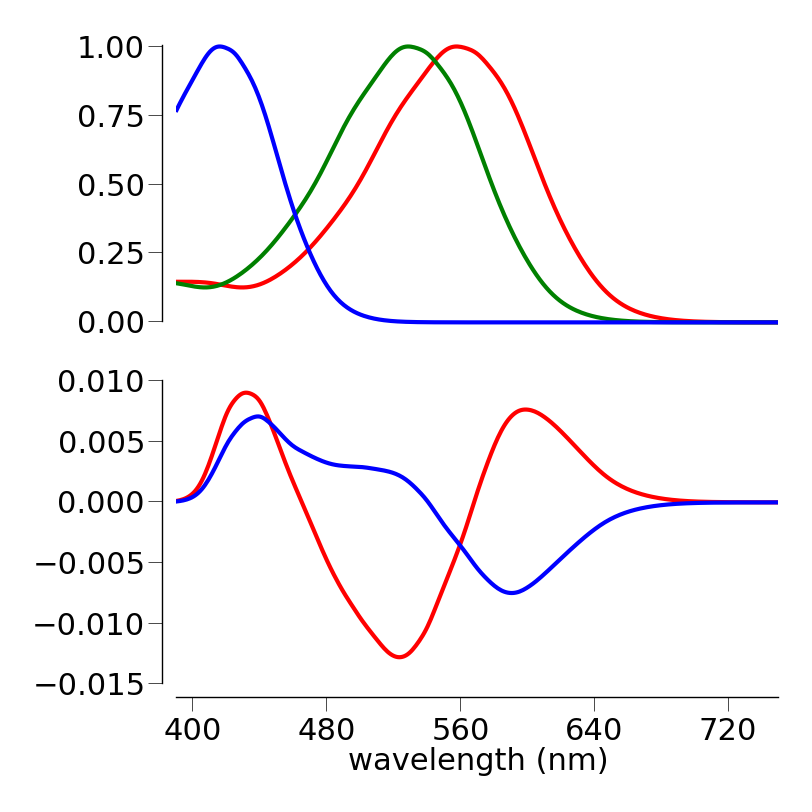
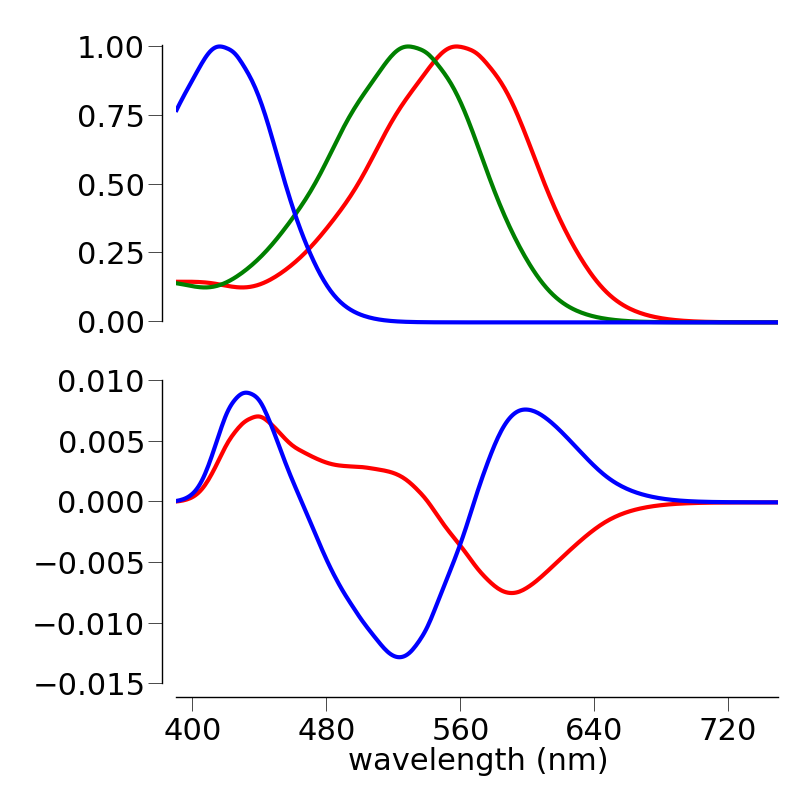
trying to fix flat green line

diff --git a/colorModel.py b/colorModel.py
@@ -3,7 +3,7 @@ from __future__ import division
 import numpy as np
 from scipy.optimize import fsolve
 import matplotlib.pylab as plt
-#from math import factorial
+from math import factorial
 
 from spectsens import spectsens
 import PlottingFun as pf
@@ -13,17 +13,28 @@ from sompy import SOM
 class colorModel():
 
     def __init__(self,
-                ConeRatio={'fracLvM': 0.90, 's': 0.05, },
+                ConeRatio={'fracLvM': 0.50, 's': 0.05, },
                 maxSens={'l': 559.0, 'm': 530.0, 's': 417.0, }):
 
-        if ConeRatio['fracLvM'] > 1 or ConeRatio['fracLvM'] < 0:
+        self.test = True
+        self.step = 5
+        self.findConeRatios(ConeRatio['fracLvM'], ConeRatio['s'])
+        self.maxSens = maxSens
+        self.getStockmanFilter()
+
+    def findConeRatios(self, fracLvM, fracS=None):
+        if fracS > 1 or fracLvM < 0:
             raise IOError('Fraction of LvM must be between 0 and 1!')
 
-        self.sRatio = ConeRatio['s']
-        self.lRatio = (1 - self.sRatio) * (ConeRatio['fracLvM'])
-        self.mRatio = (1 - self.sRatio) * (1 - self.lRatio)
+        if fracS is not None:
+            self.sRatio = fracS
+        self.lRatio = (1 - self.sRatio) * (fracLvM)
+        self.mRatio = (1 - self.sRatio) * (1 - fracLvM)
 
-        self.maxSens = maxSens
+        if self.test:
+            if round(self.sRatio + self.mRatio + self.lRatio, 7) != 1.0:
+                print 'lms ratios: ', self.sRatio, self.mRatio, self.lRatio
+                raise IOError('cone ratios must sum to 1.0!')
 
     def genModel(self):
 
@@ -31,11 +42,46 @@ class colorModel():
         self.genSecondStage()
         self.genThirdStage()
 
-    def uniqueHues(self):
-
+    def findUniqueHues(self):
+        lambdas = self.FirstStage['lambdas']
+        uniqueRed, uniqueGreen, uniqueBlue, uniqueYellow = [], [], [], []
+        LMratio = []
         if self.SecondStage:
-            for i in range(0, 101, 1):
-                self.genThirdStage(i / 100.)
+            for i in range(0, 101, self.step):
+
+                self.findConeRatios(fracLvM=(i / 100.))
+                self.genThirdStage()
+                temp = self.returnThirdStage()
+                RG = temp['redGreen']
+                BY = temp['blueYellow']
+
+                if i == 0:
+                    uniqueGreen.append(495)
+                    uniqueRed.append(600)
+                else:
+                    zero_cross = np.where(np.diff(np.sign(RG)))[0]
+                    uniqueGreen.append(lambdas[zero_cross[0]])
+                    uniqueRed.append(lambdas[np.argmin(RG)])
+
+                if i == 100:
+                    uniqueBlue.append(470)
+                    uniqueYellow.append(578)
+                else:
+
+                    zero_cross = np.where(np.diff(np.sign(BY)))[0]
+                    uniqueBlue.append(lambdas[zero_cross[0]])
+                    uniqueYellow.append(lambdas[np.argmin(BY)])
+                    #uniqueYellow.append(lambdas[zero_cross[1]])
+
+                LMratio.append(i)
+
+        self.uniqueHues = {
+            'red': uniqueRed,
+            'blue': uniqueBlue,
+            'green': uniqueGreen,
+            'yellow': uniqueYellow,
+            'LMratio': LMratio,
+            }
 
     def genFirstStage(self, startLambda=390, endLambda=750, step=1,
                         Out='anti-log'):
@@ -78,15 +124,15 @@ class colorModel():
 
         self.SecondStage = {'lmsV_L': {}, 'lmsV_M': {}, 'ratio': {}, }
         i = 0
-        for s in range(0, 101, 10):
-            for m in range(0, 101, 10):
-                for l in range(0, 101, 10):
+        for s in range(0, 101, self.step):
+            for m in range(0, 101, self.step):
+                for l in range(0, 101, self.step):
                     if (l + m + s) == 100:
                         ratio = {'s': s, 'm': m, 'l': l, }
                         lmsV_L = self.optimizeChannel(cones, ratio,
-                                                        Vcone=L_cones)
+                                                        Center=L_cones)
                         lmsV_M = self.optimizeChannel(cones, ratio,
-                                                        Vcone=M_cones)
+                                                        Center=M_cones)
                         self.SecondStage['lmsV_L'][i] = lmsV_L
                         self.SecondStage['lmsV_M'][i] = lmsV_M
                         self.SecondStage['ratio'][i] = ratio
@@ -98,52 +144,75 @@ class colorModel():
         self.ThirdStage = {'redGreen': {}, 'blueYellow': {}, }
 
         #poisson = lambda mu, k: (np.exp(-mu) * mu ** k) / factorial(k)
-        gauss = lambda mu, k: (np.exp(-1 * (k - mu) ** 2))
+        gauss = lambda mu, k: (np.exp(-1 * ((k - mu) ** 2) / 4 ** 2))
         gaussS, gaussM, gaussL = [], [], []
-        for i in range(0, 101, 10):
-            gaussS.append(gauss(self.sRatio, i / 100))
-            gaussM.append(gauss(self.mRatio, i / 100))
-            gaussL.append(gauss(self.lRatio, i / 100))
+        for i in range(0, 101, self.step):
+            gaussS.append(gauss(self.sRatio * 100., i))
+            gaussM.append(gauss(self.mRatio * 100., i))
+            gaussL.append(gauss(self.lRatio * 100., i))
         gaussS = gaussS / sum(gaussS)
         gaussM = gaussM / sum(gaussM)
         gaussL = gaussL / sum(gaussL)
+        '''
+        plt.figure()
+        plt.plot(range(0, 101, 1), gaussS)
+        plt.plot(range(0, 101, 1), gaussM)
+        plt.plot(range(0, 101, 1), gaussL)
+        plt.show()
+        '''
+        if self.test:
+            if self.mRatio != 0 and self.lRatio != 0:
+                if round(sum(gaussS) + sum(gaussM) + sum(gaussL), 5) != 3.0:
+                    print 'sum s: ', sum(gaussS)
+                    print 'sum m: ', sum(gaussM)
+                    print 'sum l: ', sum(gaussL)
+                    raise ValueError('gaussian prob distributions \
+                        must sum to 1')
 
-        if self.lRatio != 0:
-            lCenterProb = (self.mRatio + self.lRatio) / self.lRatio
-        else:
-            lCenterProb = 0
+        lCenterProb = self.lRatio / (self.mRatio + self.lRatio)
 
         self.ThirdStage = {
+            'mCenter': np.zeros(len(self.SecondStage['lmsV_L'][0])),
+            'lCenter': np.zeros(len(self.SecondStage['lmsV_M'][0])),
             'redGreen': np.zeros(len(self.SecondStage['lmsV_L'][0])),
-            'blueYellow': np.zeros(len(self.SecondStage['lmsV_L'][0])),
+            'blueYellow': np.zeros(len(self.SecondStage['lmsV_M'][0])),
             }
-
+        p = 0
         for i in self.SecondStage['lmsV_L']:
-            lRat = self.SecondStage['ratio'][i]['l'] / 10.
-            mRat = self.SecondStage['ratio'][i]['m'] / 10.
-            sRat = self.SecondStage['ratio'][i]['s'] / 10.
+            lRat = self.SecondStage['ratio'][i]['l'] / self.step
+            mRat = self.SecondStage['ratio'][i]['m'] / self.step
+            sRat = self.SecondStage['ratio'][i]['s'] / self.step
 
             prob = (gaussS[sRat] * gaussM[mRat] * gaussL[lRat])
+            p += prob
+            lCenter = self.SecondStage['lmsV_L'][i]
+            mCenter = self.SecondStage['lmsV_M'][i]
 
-            BY = self.SecondStage['lmsV_L'][i]
-            RG = self.SecondStage['lmsV_M'][i]
+            self.ThirdStage['mCenter'] += mCenter * prob * (1 - lCenterProb)
+            self.ThirdStage['lCenter'] += lCenter * prob * (lCenterProb)
 
-            self.ThirdStage['redGreen'] += RG * prob * lCenterProb
-            self.ThirdStage['blueYellow'] -= BY * prob * (1 - lCenterProb)
+        self.ThirdStage['blueYellow'] = (self.ThirdStage['mCenter'] -
+                                        self.ThirdStage['lCenter'])
+        self.ThirdStage['redGreen'] = (self.ThirdStage['mCenter'] +
+                                        self.ThirdStage['lCenter'])
+        print p
 
-    def optimizeChannel(self, cones, ratio, Vcone):
+    def optimizeChannel(self, cones, ratio, Center):
 
-        lensMacula = self.getStockmanFilter()
-
-        fun = lambda w, Vcone: (w * (ratio['s'] * cones['s'] +
-                                            ratio['m'] * cones['m'] +
-                                            ratio['l'] * cones['l']) -
-                                         Vcone) / lensMacula
+        fun = lambda w, Center: (w * (ratio['s'] * cones['s'] +
+                                    ratio['m'] * cones['m'] +
+                                    ratio['l'] * cones['l']) -
+                                 Center) / self.lensMacula
         # error function to minimize
-        err = lambda w, Vcone: (fun(w, Vcone)).sum()
+        err = lambda w, Center: (fun(w, Center)).sum()
+        w = fsolve(err, 1, args=(Center))
+        out = fun(w, Center)
 
-        con = fsolve(err, 1, args=(Vcone))
-        out = fun(con, Vcone)
+        if self.test:
+            temp = err(w, Center)
+            if temp > 1e-8:
+                print ratio
+                raise ValueError('error function not minimized properly')
 
         return out
 
@@ -152,7 +221,7 @@ class colorModel():
         lens = np.genfromtxt('stockman/lens.csv', delimiter=',')[::10]
         macula = np.genfromtxt('stockman/macular.csv', delimiter=',')[::10]
 
-        return 10 ** lens[:361, 1] + 10 ** macula[:361, 1]
+        self.lensMacula = 10 ** lens[:361, 1] + 10 ** macula[:361, 1]
 
     def rectify(self, plot=True):
 
@@ -212,16 +281,16 @@ class colorModel():
     def returnThirdStage(self):
         return self.ThirdStage
 
-    def returnFinal(self):
-        return self.final
+    def returnUniqueHues(self):
+        return self.uniqueHues
 
 
-def plotModel(FirstStage, SecondStage, ThirdStage):
+def plotModel(FirstStage, SecondStage, ThirdStage, UniqueHues):
     """Plot cone spectral sensitivies and first stage predictions.
     """
 
-    fig = plt.figure(figsize=(8, 8))
-    ax1 = fig.add_subplot(211)
+    fig = plt.figure(figsize=(8, 11))
+    ax1 = fig.add_subplot(311)
     pf.AxisFormat()
     pf.TufteAxis(ax1, ['left', ], Nticks=[5, 5])
 
@@ -238,13 +307,22 @@ def plotModel(FirstStage, SecondStage, ThirdStage):
 
     if 'redGreen' in ThirdStage:
 
-        ax3 = fig.add_subplot(212)
+        ax2 = fig.add_subplot(312)
+        pf.TufteAxis(ax2, ['left', ], Nticks=[5, 5])
+        ax2.plot(FirstStage['lambdas'], ThirdStage['lCenter'],
+                'r', linewidth=3)
+        ax2.plot(FirstStage['lambdas'], ThirdStage['mCenter'],
+                'b', linewidth=3)
+
+        ax3 = fig.add_subplot(313)
         pf.TufteAxis(ax3, ['left', 'bottom'], Nticks=[5, 5])
         ax3.plot(FirstStage['lambdas'], ThirdStage['redGreen'],
                 'r', linewidth=3)
         ax3.plot(FirstStage['lambdas'], ThirdStage['blueYellow'],
                 'b', linewidth=3)
 
+    ax2.set_xlim([FirstStage['wavelen']['startWave'],
+                     FirstStage['wavelen']['endWave']])
     ax3.set_xlim([FirstStage['wavelen']['startWave'],
                      FirstStage['wavelen']['endWave']])
     #ax3.set_ylabel('activity')
@@ -262,15 +340,37 @@ def plotModel(FirstStage, SecondStage, ThirdStage):
         pf.TufteAxis(ax2, ['left', 'bottom'], Nticks=[5, 5])
 
         for i in SecondStage['lmsV_L']:
-            ax1.plot(FirstStage['lambdas'], SecondStage['lmsV_M'][i],
-                    'b', linewidth=1)
-            ax2.plot(FirstStage['lambdas'], SecondStage['lmsV_L'][i],
-                    'r', linewidth=1)
+            if i % 10 == 0:
+                ax1.plot(FirstStage['lambdas'], SecondStage['lmsV_M'][i],
+                        'b', linewidth=1)
+                ax2.plot(FirstStage['lambdas'], SecondStage['lmsV_L'][i],
+                        'r', linewidth=1)
 
         ax1.set_xlim([FirstStage['wavelen']['startWave'],
                       FirstStage['wavelen']['endWave']])
         ax2.set_xlim([FirstStage['wavelen']['startWave'],
                       FirstStage['wavelen']['endWave']])
+        plt.tight_layout()
+        plt.show()
+
+    if 'green' in UniqueHues:
+        fig = plt.figure(figsize=(8, 6))
+        ax1 = fig.add_subplot(111)
+        pf.AxisFormat()
+        pf.TufteAxis(ax1, ['left', 'bottom'], Nticks=[5, 5])
+
+        ax1.plot(UniqueHues['LMratio'], UniqueHues['red'],
+                'r', linewidth='3')
+        ax1.plot(UniqueHues['LMratio'], UniqueHues['green'],
+                'g', linewidth='3')
+        ax1.plot(UniqueHues['LMratio'], UniqueHues['blue'],
+                'b', linewidth='3')
+        ax1.plot(UniqueHues['LMratio'], UniqueHues['yellow'],
+                'y', linewidth='3')
+
+        ax1.set_ylabel('wavelength (um)')
+        ax1.set_xlabel('percent L vs M')
+
         plt.tight_layout()
         plt.show()
 
@@ -281,5 +381,7 @@ if __name__ == '__main__':
     FirstStage = model.returnFirstStage()
     SecondStage = model.returnSecondStage()
     ThirdStage = model.returnThirdStage()
-    plotModel(FirstStage, SecondStage, ThirdStage)
+    model.findUniqueHues()
+    UniqueHues = model.returnUniqueHues()
+    plotModel(FirstStage, SecondStage, ThirdStage, UniqueHues)
     #model.rectify()
